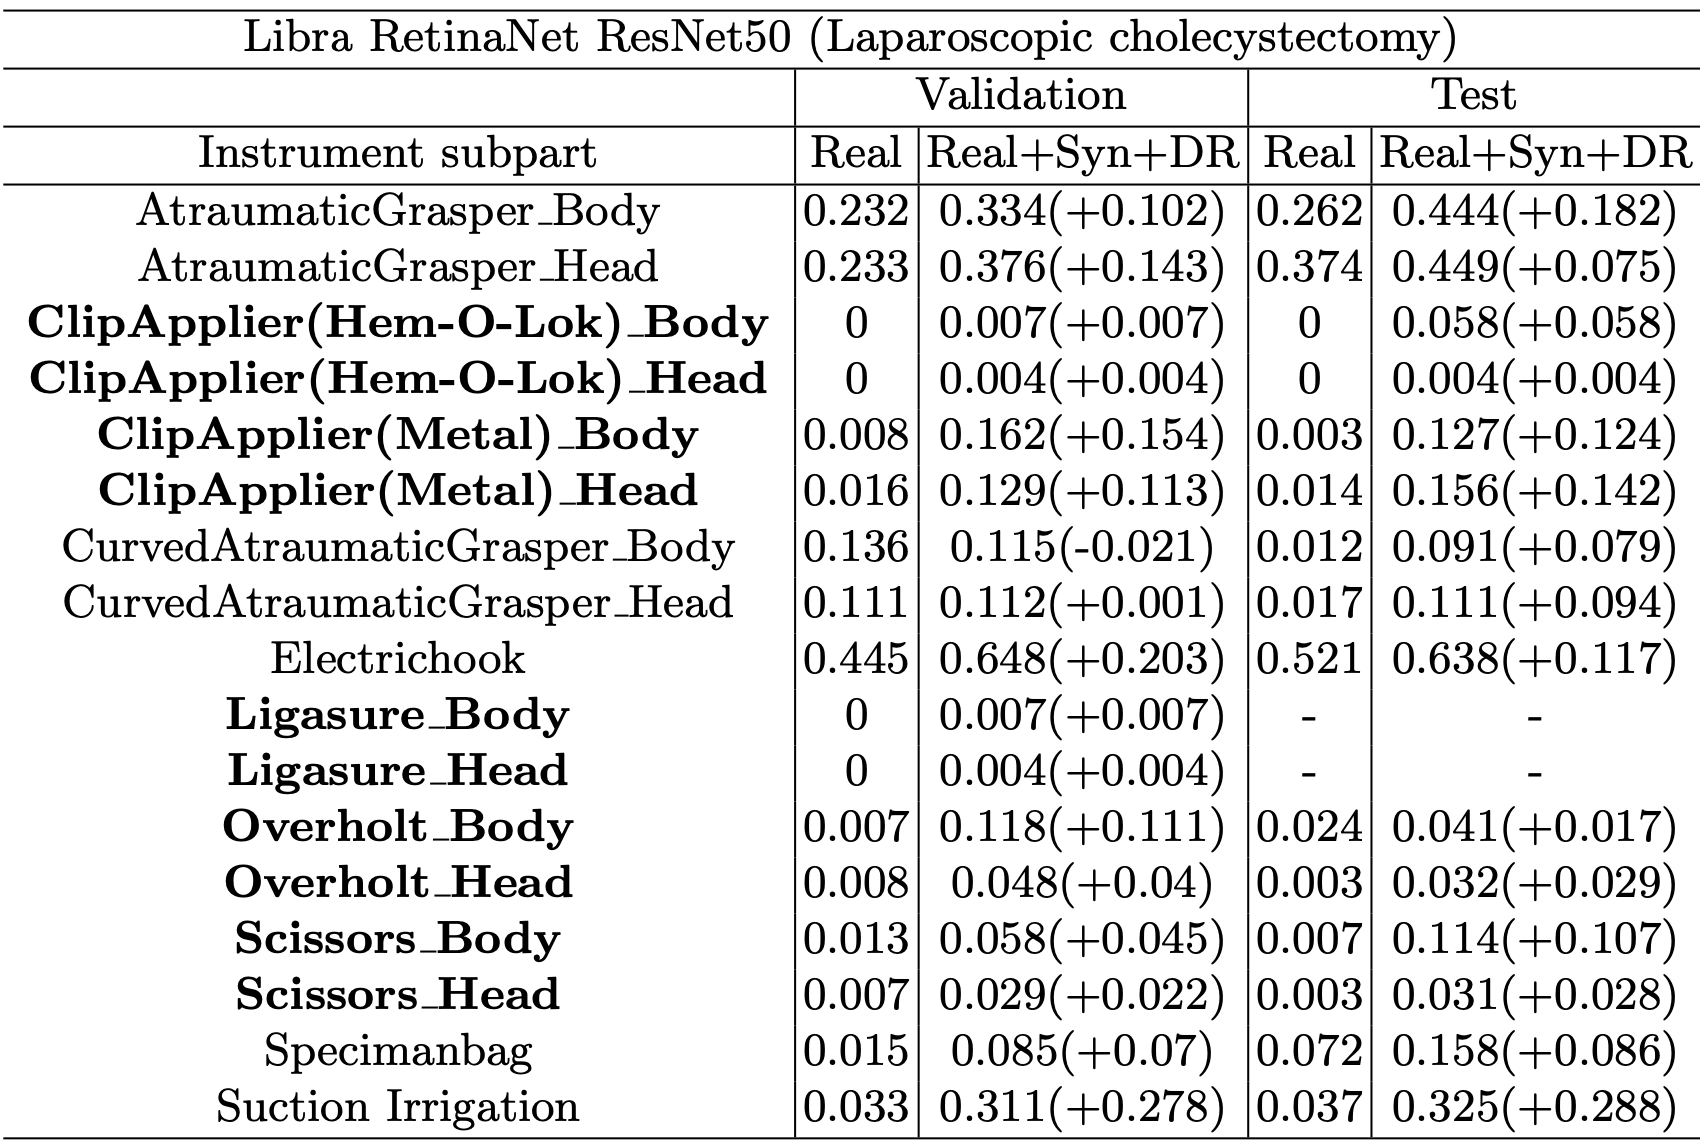
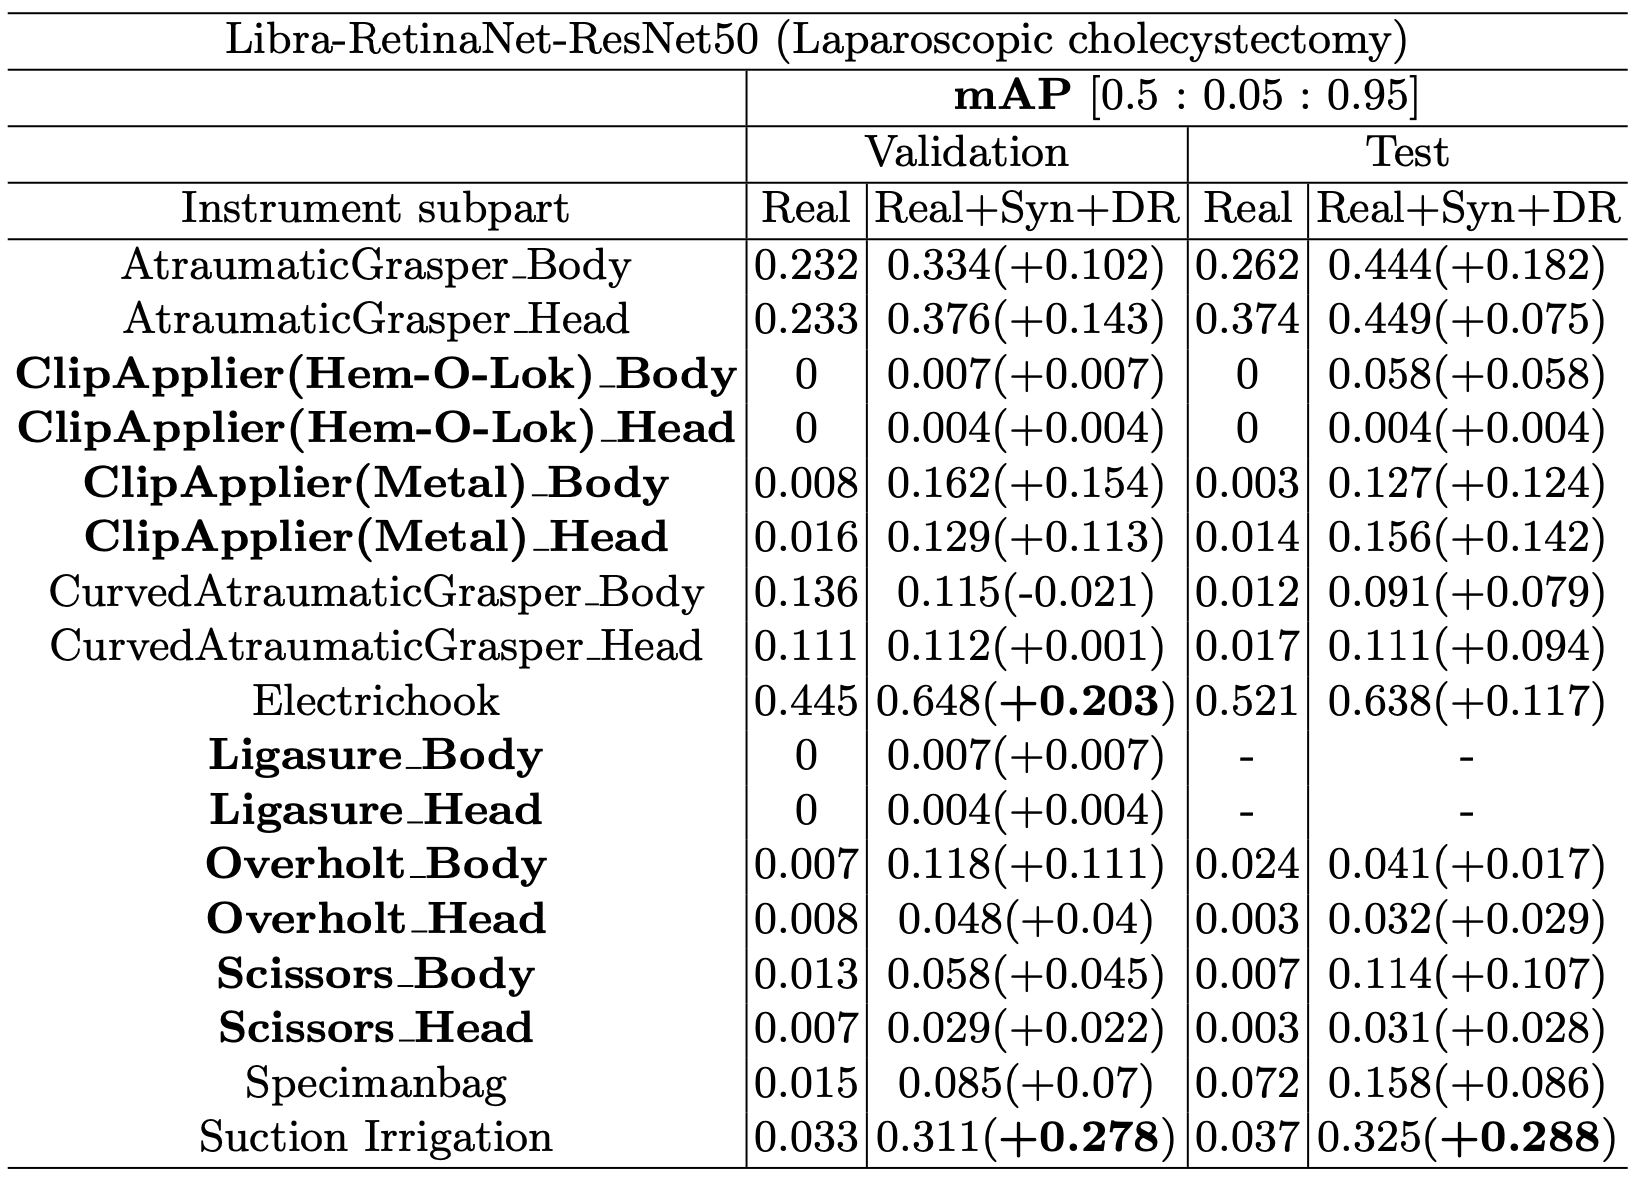
update figures

Changed region(s): [[0.0, 0.0, 0.9951, 1.0]]

diff --git a/README.md b/README.md
@@ -12,11 +12,11 @@ hSDB-instrument dataset is a new dataset that reflects the kinematic characteris
 | Surgery Type | Data Type            | Image                                     |
 | :----------- | :------------------- | :---------------------------------------- |
 | Cholec.      | Real                 | ![cholec_real](figures/cholec_real.png)   |
-| Cholec.      | Synthetic            | ![cholec_syn](figures/cholec_syn.png)     |
-| Cholec.      | Domain randomization | ![cholec_dr](figures/cholec_dr.png)       |
-| Gastrec.     | Real                 | ![gastrec_real](figures/gastrec_real.png) |
-| Gastrec.     | Synthetic            | ![gastrec_syn](figures/gastrec_syn.png)   |
-| Gastrec.     | Domain randomization | ![gastrec_dr](figures/gastrec_dr.png)     |
+| Cholec.      | Synthetic            | ![cholec_syn](figures/cholec_syn.jpg)     |
+| Cholec.      | Domain randomization | ![cholec_dr](figures/cholec_dr.jpg)       |
+| Gastrec.     | Real                 | ![gastrec_real](figures/gastrec_real.jpg) |
+| Gastrec.     | Synthetic            | ![gastrec_syn](figures/gastrec_syn.jpg)   |
+| Gastrec.     | Domain randomization | ![gastrec_dr](figures/gastrec_dr.jpg)     |
 
 
 
@@ -41,12 +41,18 @@ hSDB-instrument dataset is a new dataset that reflects the kinematic characteris
 
 We  provide  additional  statistics  for  the  hSDB-instrument  dataset.  Additional statistics includes the relative amount of annotations in subparts of the tools and the tools itself. Figure 1 shows the relative amount of annotations of the subparts with the largest number of the subpart to 1.0 in laparoscopic cholecystectomy. Figure 1 compares the relative amount of the normalized number of supervision. The graph at the top is the statistic for the real dataset, and the graph at the bottom is the statistic for real, synthetic (San), and domain randomization (DR) dataset. Figure 2 shows the same statistics as in Figure 1 in gastrectomy for gastric cancer. 
 
+
+
 ![Figure 1](figures/fig1.png)***Figure 1*. The relative amount of annotation for each subpart of the tools used for laparoscopic cholecystectomy.** The largest number of annotations were normalized to 1.0.
 ![Figure 2](figures/fig2.png)
 
 ***Figure 2.* The relative amount of annotation for each subpart of the tools used for robotic gastrectomy.** The largest number of annotations were normalized to 1.0.
 
+
+
 Figure 3 and 4 show the number of annotations of the tools in a logarithmic scale. In figure 3, the tools that appear in laparoscopic cholecystectomy are largely divided into laparoscopic head, laparoscopic body, laparoscopic instrument  tools,  and  auxiliary  tools.  Laparoscopic  instrument  tools  are  referred  to equipments such as suction-irrigation and electrichook that are not divided into subparts. Auxiliary tools are assistive tools, such as needle and specimen bag.The graph on the right is a statistic including the synthetic (Syn) and domain randomization (DR) dataset. Same manner is applied for robotic gastrectomy in figure 4. Figure 5 shows the proportion of annotations by the categories definedin figure 3 and 4. Figure 6 also shows the proportion of annotations by the same categories including both laparoscopic and robotic instruments.
+
+
 
 ![Figure 3](figures/fig3.png)
 
@@ -64,15 +70,21 @@ Figure 3 and 4 show the number of annotations of the tools in a logarithmic scal
 
 ***Figure 6.* Proportion of annotations by instrument category for robotic gastrectomy.**
 
-Table 1 shows the number of annotations of each subpart for laparoscopic cholecystectomy and robotic gastrectomy dataset. We added equal amount of synthetic and domain randomization dataset to each imbalanced class. Table 2 shows performance evaluation results of Libra RetinaNet ResNet 50 detectors trained on each dataset. Imbalanced classes are highlighted in bold and the performances increased more than 0.2 are highlighted in bold. Most of performances in mAP were improved with our synthetic and domain radomization dataset in both laparoscopic cholecystectomy and robotic gastrectomy. But some imbalanced classes that didn't have real data (e.g. Ligasure_Body, Ligasure_Head in laparoscopic cholecystectomy and AtraumaticGrasper_Body, AtraumaticGrasper_Head, Overholt_Body and Overholt_Head in robotic gastrectomy) weren't improved by adding the dataset. 
 
-### ![Lapa  data](figures/lapa_data.png)![Lapa  data](figures/robot_data.png)
+
+Table 1 shows the number of annotations of each subpart for laparoscopic cholecystectomy and robotic gastrectomy dataset. We added equal amount of synthetic and domain randomization dataset to each imbalanced class. Table 2 shows performance evaluation results of Libra-RetinaNet-ResNet 50 detectors trained on each dataset. Imbalanced classes are highlighted in bold and the performances increased more than 0.2 are highlighted in bold. Most of performances in mAP were improved with our synthetic and domain radomization dataset in both laparoscopic cholecystectomy and robotic gastrectomy. But some imbalanced classes that didn't have real data (e.g. Ligasure_Body, Ligasure_Head in laparoscopic cholecystectomy and AtraumaticGrasper_Body, AtraumaticGrasper_Head, Overholt_Body and Overholt_Head in robotic gastrectomy) weren't improved by adding the dataset. Overally, robotic gastrectomy dataset shows better performace improvement than laparoscopic cholecystectomy dataset. The most improved class was the SmallClipApplier, imblanced class in robotic gastrectomy.
+
+
+
+![Lapa  data](figures/lapa_data.png)![Lapa  data](figures/robot_data.png)
 
 ***Table 1.* Number of annotations by instrument subpart for laparoscopic cholecystectomy  and robotic gastrectomy.** Synthetic and domain randomization dataset were added equally to each imbalanced class and the classes are highlighted in bold.
 
 ![Lapa evaluation](figures/libra_retina_r50_lapa.png)![Robot evaluation](figures/libra_retina_r50_robot.png)
 
-***Table 2.* Performance evaluation results validation and test set.** Imbalanced classes that synthetic and domain randomization dataset were added are highlighted in bold. 
+***Table 2.* Performance evaluation results validation and test set.** Imbalanced classes that synthetic and domain randomization dataset were added are highlighted in bold. Performances increased more than 0.2 are also highlighted in bold. 
+
+
 
 ### Model Zoo
 
@@ -211,13 +223,13 @@ More samples are included in `hsdb_demo/sample_images/`.
 
 #### Laproscopic Cholecystectomy
 
-![cholec_sample1](figures/cholec_sample1.png)
+![cholec_sample1](figures/cholec_sample1.jpg)
 
 
 
 #### Robotic Gastrectomy
 
-![gastrec_sample1](figures/gastrec_sample1.png)
+![gastrec_sample1](figures/gastrec_sample1.jpg)
 
 
 
